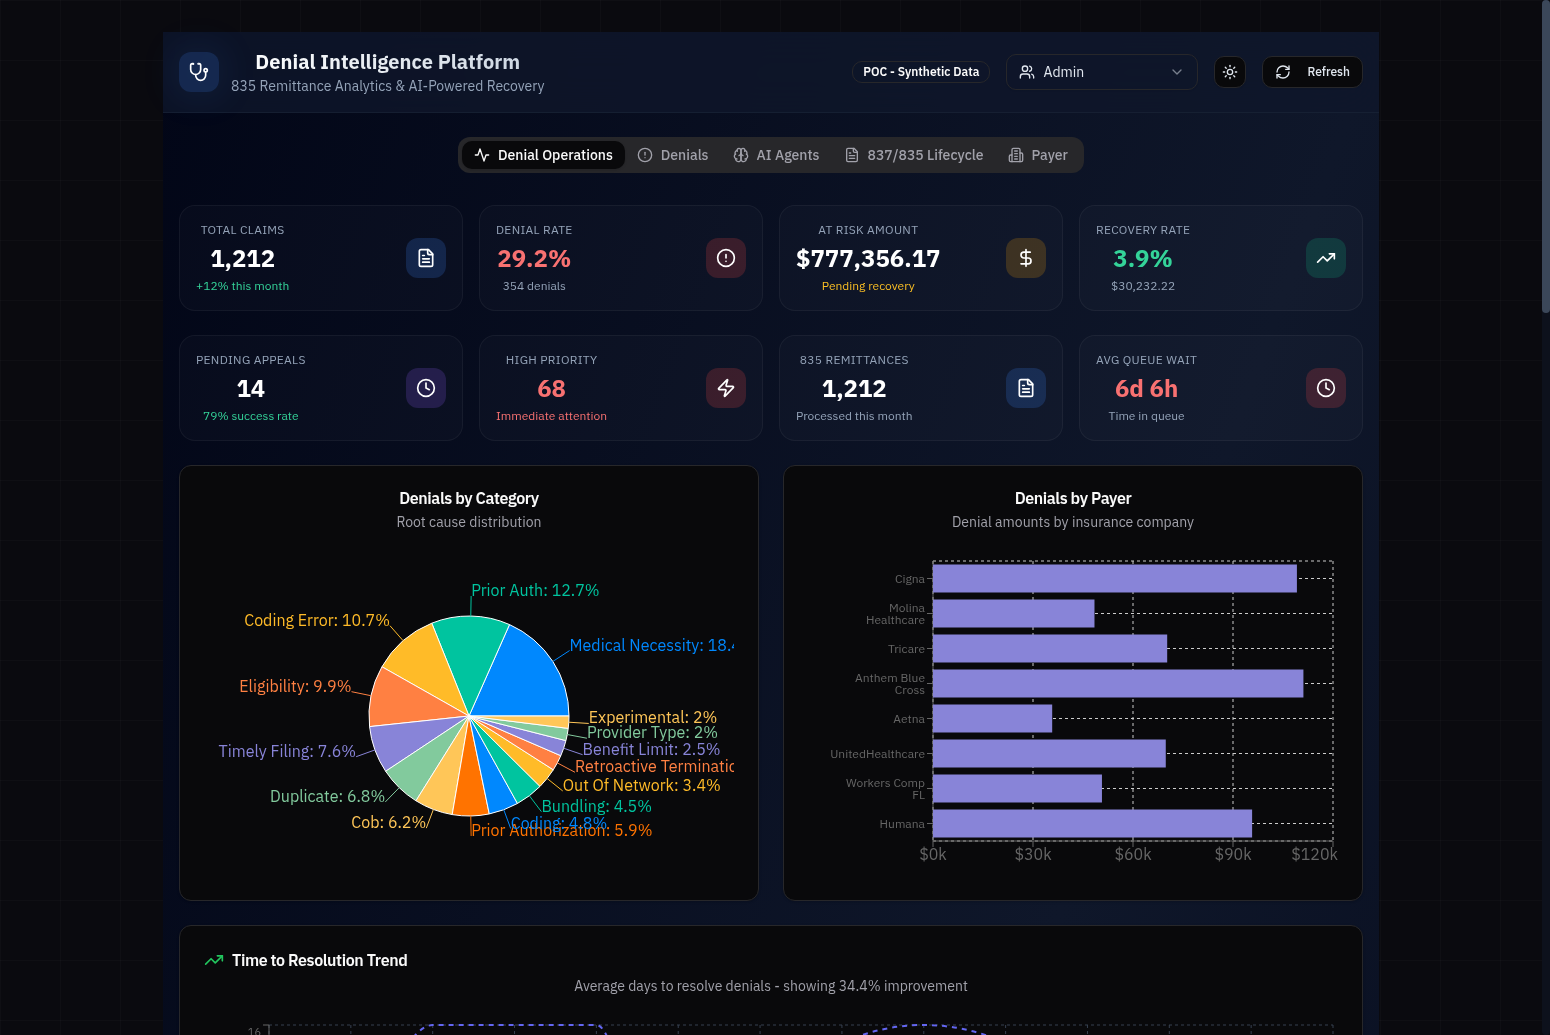
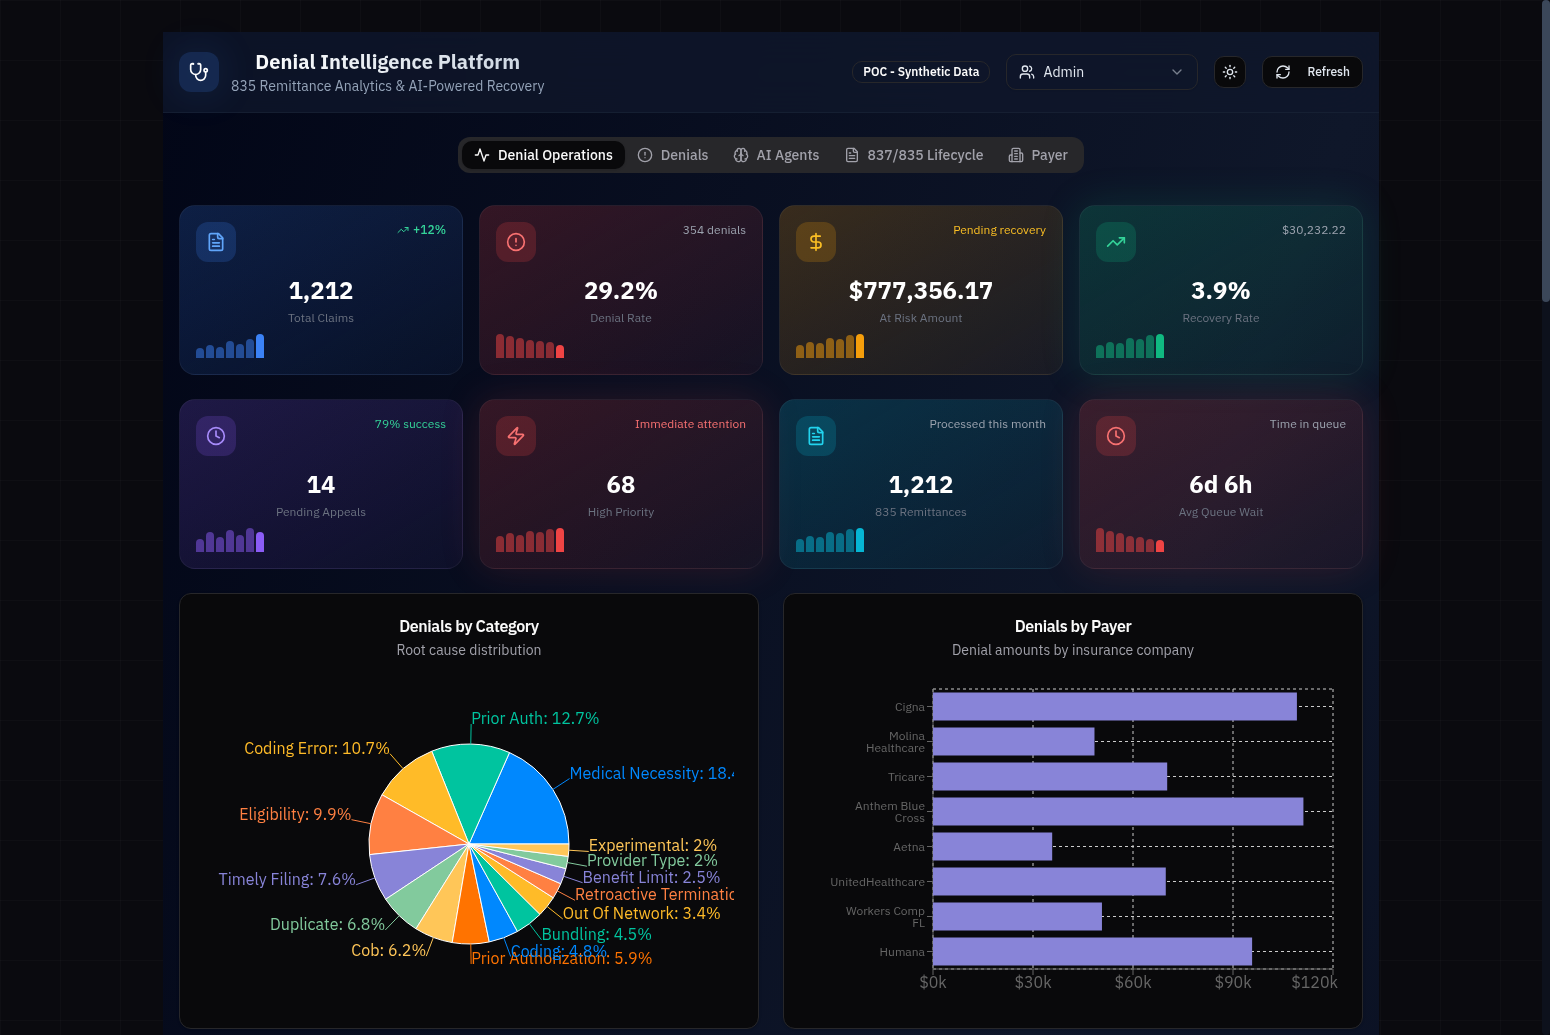
docs: Update README with new dashboard screenshot
- Updated Operations Dashboard section to reference new screenshot
- Added description of gradient KPI cards, sparkline bars, and new visual design
- Screenshot shows IBM Plex Sans font and dark theme styling

Changed region(s): [[0.0929, 0.1855, 0.8981, 1.0], [0.991, 0.2783, 1.0, 0.3092], [0.8361, 0.2164, 0.8671, 0.2473]]

diff --git a/README.md b/README.md
@@ -344,8 +344,8 @@ Executive financial intelligence dashboard with 8 KPI cards, churn waterfall, de
 ![CFO Dashboard](docs/screenshots/08_cfo_dashboard.png)
 
 ### Operations Dashboard
-Main dashboard showing denial metrics, category distribution, payer analysis, and AI impact summary.
-![Dashboard](docs/screenshots/01_dashboard.png)
+Main dashboard showing denial metrics with gradient KPI cards, sparkline bars, category distribution, payer analysis, and AI impact summary. Features the new visual design with IBM Plex Sans font and dark theme.
+![Dashboard](docs/screenshots/01_dashboard_new.png)
 
 ### Denials Tab
 Denials list with status filters, search, and AI-powered recommendations.
